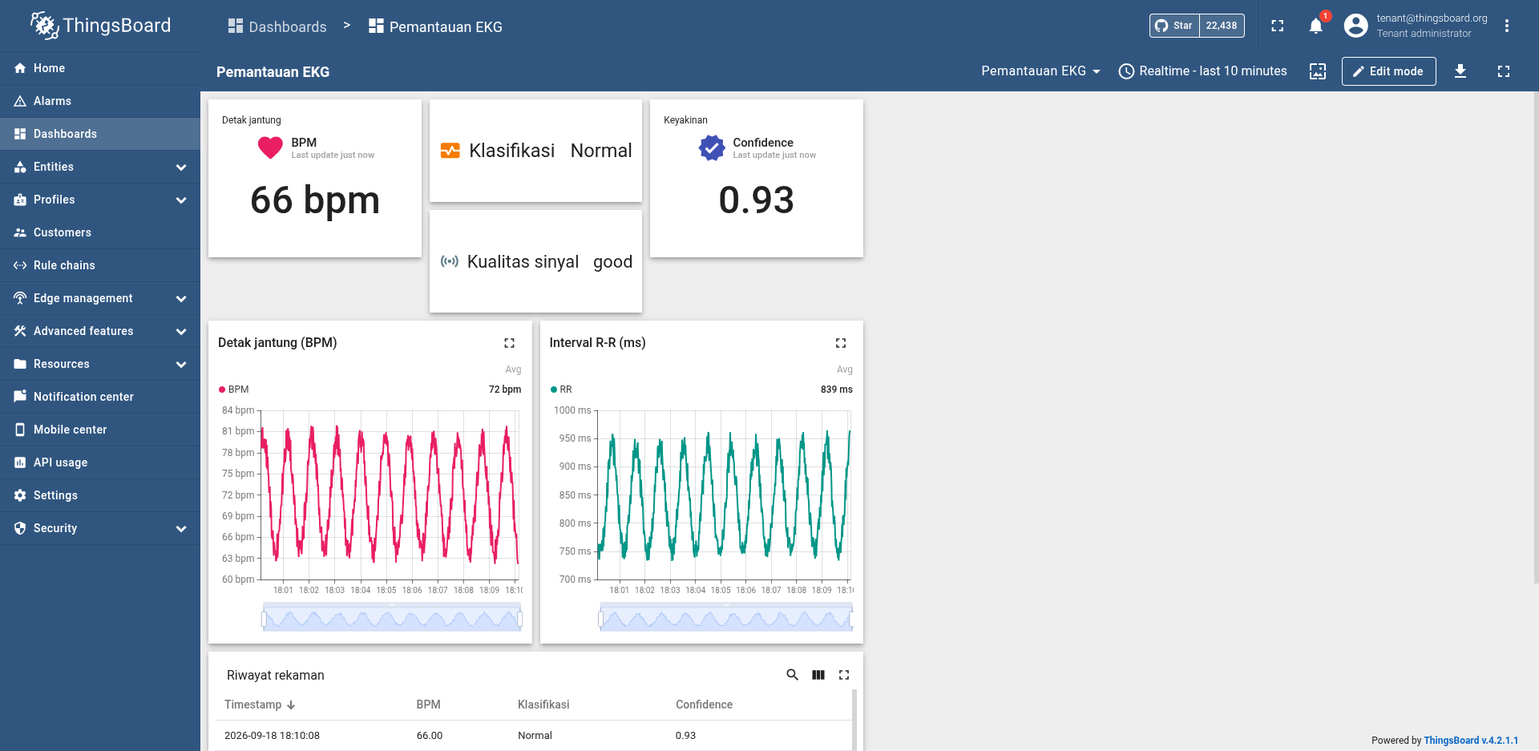
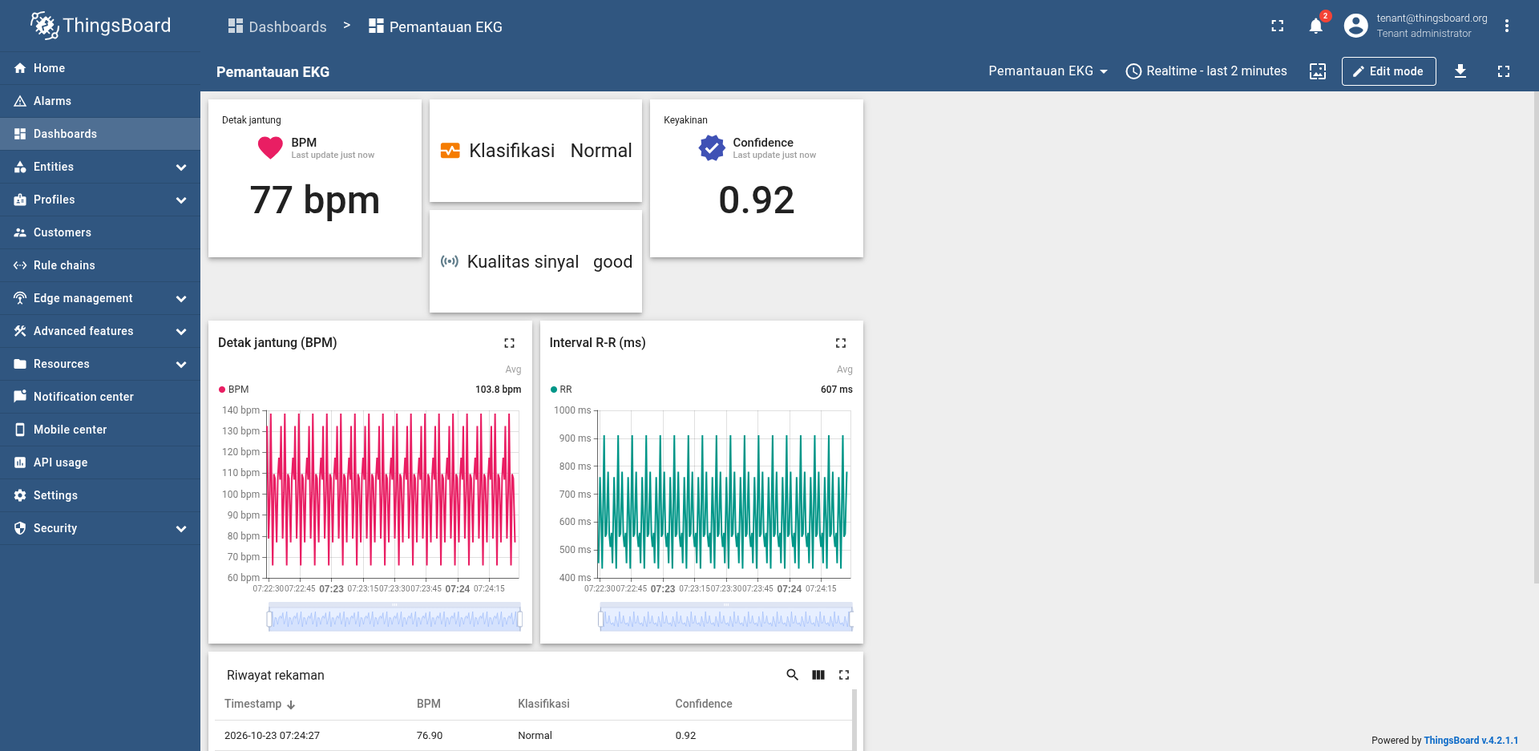
feat(laporan): ulangan ketiga uji pipeline dan dashboard telemetri perangkat
Run 3: dashboard/ukur_pipeline.py 120, 23 Okt 2026 07.22-07.24, firmware
akhir, replay acuan, WiFi HIFIAIR_9351 RSSI -40 dBm:
  LATENSI (batas bawah/atas) n 201: median 1014/1031 ms, p95 2251/2263 ms,
    min 495/507 ms, maks 2813/2960 ms; target <= 2000 ms median LULUS
  PDSR: terkirim 201 | hilang 0 | gagal 0 | paket 188/188 PDSR 100.0%
  REST ThingsBoard 07:21:30-07:25:00: 267 baris, 267 ts unik
    (= terkirim 267 di status akhir board), ts ganda 0
Dashboard: Playwright localhost:8080, jendela Realtime 2 menit,
viewport 1920x937 (sama dengan gambar lama), tangkapan 07:24 ->
dashboard/preview.png -> export_artifacts.sh --laporan.
Gambar lama berisi telemetri uji smoke_test 18 Sep, kini telemetri
perangkat (77 bpm, Normal, 0.92, good).

Buku: tab:target-pipeline kolom Ulangan 3, paragraf Streaming Normal,
Dashboard, ketercapaian, analisis, keterbatasan p95, Bab 5, abstrak
(99,2-100,0% pada tiga ulangan, median 939-1.108 ms).
Walkthrough §7c kolom Run 3. Pekerjaan terbuka: rekaman mulai sendiri
sesudah colok USB (teramati 2 kali, penyebab belum diukur).

Bukti: make pdf exit 0, undefined 0, Overfull 0; cek_tabel.py 0 galat
0 saran; halaman tabel (100) dan gambar dashboard (105) dirender dan
dilihat.

diff --git a/laporan/buku-pa/bab/bab4.tex b/laporan/buku-pa/bab/bab4.tex
@@ -873,7 +873,7 @@ Pengukuran yang sah memerlukan beban yang identik pada setiap ulangan, karena it
 \subsection{Jalur \textit{Pipeline Edge-to-Cloud} Resilien}
 \label{subsec:hasil-tujuan3}
 
-\textit{Pipeline edge-to-cloud} dibangun dengan protokol MQTT dan bufer lokal untuk menjaga kontinuitas data saat koneksi terputus. Keberhasilannya dinilai pada enam target di Tabel~\ref{tab:pengujian-pipeline}, dengan latensi dinilai pada median dan p95 dilaporkan (Tabel~\ref{tab:parameter-eksperimen}). Pengukuran pengiriman dilakukan pada 19 September 2026 dengan sumber sinyal \textit{replay} rekaman 208, karena sinyal yang deterministik membuat hasil antarulangan dapat dibandingkan dan jumlah detak yang dikirim dapat dihitung secara pasti. Pengukuran tersebut karena itu menguji jalur dari pemrosesan di perangkat sampai \textit{dashboard}, sedangkan gerbang kualitas juga diuji dengan sinyal tubuh pada 21--22 Oktober 2026. Hasilnya dipaparkan dalam lima butir, yaitu gerbang kualitas, \textit{streaming} normal, putus koneksi, latensi, dan \textit{dashboard}.
+\textit{Pipeline edge-to-cloud} dibangun dengan protokol MQTT dan bufer lokal untuk menjaga kontinuitas data saat koneksi terputus. Keberhasilannya dinilai pada enam target di Tabel~\ref{tab:pengujian-pipeline}, dengan latensi dinilai pada median dan p95 dilaporkan (Tabel~\ref{tab:parameter-eksperimen}). Pengukuran pengiriman dilakukan pada 19 September 2026 dan diulang pada 23 Oktober 2026 dengan sumber sinyal \textit{replay} rekaman 208. Sinyal yang deterministik membuat hasil antarulangan dapat dibandingkan dan jumlah detak yang dikirim dapat dihitung secara pasti. Pengukuran tersebut karena itu menguji jalur dari pemrosesan di perangkat sampai \textit{dashboard}, sedangkan gerbang kualitas juga diuji dengan sinyal tubuh pada 21--22 Oktober 2026. Hasilnya dipaparkan dalam lima butir, yaitu gerbang kualitas, \textit{streaming} normal, putus koneksi, latensi, dan \textit{dashboard}.
 % sumber: laporan/buku-pa/bab/bab1.tex Tujuan butir 3; laporan/buku-pa/bab/bab3.tex tab:pengujian-pipeline (enam aspek); bab4.tex tab:parameter-eksperimen baris f (latensi dinilai pada median, p95 dilaporkan) dan tab:lingkup-progres (pipeline MQTT dengan sinyal replay); model/docs/mqtt-walkthrough.md (19 September 2026); git log 6fc426c (2026-09-19)
 
 \subsubsection{Gerbang Kalibrasi dan Kualitas Sinyal}
@@ -894,40 +894,40 @@ Uji tersebut menunjukkan bahwa gerbang menahan sinyal tanpa elektroda dan kontak
 
 \subsubsection{\textit{Streaming} Normal}
 
-Detak yang lolos gerbang harus sampai di ThingsBoard secara utuh dan tepat waktu pada jaringan yang tidak sengaja diganggu. Perangkat terhubung melalui WiFi lokal ke ThingsBoard di komputer pengembangan, dan skrip pengukur \textit{pipeline} di komputer mengukur selama 180 detik sebanyak dua ulangan. Skrip membaca pencacah paket pada \textit{firmware} untuk PDSR dan membaca REST API ThingsBoard sekitar tiap 100~ms untuk latensi. PDSR dihitung per paket, bukan per detak, karena satu paket dapat memuat sampai 50 detak. Hasil keenam target ditunjukkan pada Tabel~\ref{tab:target-pipeline}.
-% sumber: model/docs/mqtt-walkthrough.md §7c (dashboard/ukur_pipeline.py 180, replay ON, tanpa elektroda, dua ulangan); dashboard/ukur_pipeline.py (pencacah firmware lewat serial, polling REST dengan time.sleep(0.1)); firmware/include/ecg_mqtt.h (PDSR per paket, ECG_MQTT_BATCH_N 50); laporan/buku-pa/bab/bab4.tex sec:tempat-ujicoba
+Detak yang lolos gerbang harus sampai di ThingsBoard secara utuh dan tepat waktu pada jaringan yang tidak sengaja diganggu. Perangkat terhubung melalui WiFi lokal ke ThingsBoard di komputer pengembangan, dan skrip pengukur \textit{pipeline} di komputer mengukur sebanyak tiga ulangan. Ulangan 1 dan 2 berlangsung masing-masing 180 detik pada 19 September 2026, sedangkan ulangan 3 berlangsung 120 detik pada 23 Oktober 2026 dengan \textit{firmware} akhir. Skrip membaca pencacah paket pada \textit{firmware} untuk PDSR dan membaca REST API ThingsBoard sekitar tiap 100~ms untuk latensi. PDSR dihitung per paket, bukan per detak, karena satu paket dapat memuat sampai 50 detak. Hasil keenam target ditunjukkan pada Tabel~\ref{tab:target-pipeline}.
+% sumber: model/docs/mqtt-walkthrough.md §7c (dashboard/ukur_pipeline.py 180, replay ON, tanpa elektroda, dua ulangan; Run 3 ukur_pipeline.py 120 pada 23 Okt 2026); dashboard/ukur_pipeline.py (pencacah firmware lewat serial, polling REST dengan time.sleep(0.1)); firmware/include/ecg_mqtt.h (PDSR per paket, ECG_MQTT_BATCH_N 50); laporan/buku-pa/bab/bab4.tex sec:tempat-ujicoba
 
 \begin{table}[!ht]
   \centering
-  \caption{Hasil pengukuran enam target pengujian \textit{pipeline} pada dua ulangan dengan sumber sinyal \textit{replay}}
+  \caption{Hasil pengukuran enam target pengujian \textit{pipeline} pada tiga ulangan dengan sumber sinyal \textit{replay}}
   \label{tab:target-pipeline}
   \setstretch{1.0}
   \setlength{\tabcolsep}{3pt}
   \renewcommand{\arraystretch}{1.15}
   \small
-  \begin{tabularx}{\linewidth}{>{\RaggedRight\arraybackslash}X>{\RaggedRight\arraybackslash}p{2.8cm}>{\raggedleft\arraybackslash}p{1.7cm}>{\raggedleft\arraybackslash}p{1.7cm}>{\centering\arraybackslash}p{1.9cm}}
+  \begin{tabularx}{\linewidth}{>{\RaggedRight\arraybackslash}X>{\RaggedRight\arraybackslash}p{2.6cm}>{\raggedleft\arraybackslash}p{1.45cm}>{\raggedleft\arraybackslash}p{1.45cm}>{\raggedleft\arraybackslash}p{1.45cm}>{\centering\arraybackslash}p{1.8cm}}
     \toprule
-    \textbf{Metrik} & \textbf{Target} & \textbf{Ulangan 1} & \textbf{Ulangan 2} & \textbf{Status} \\
+    \textbf{Metrik} & \textbf{Target} & \textbf{Ulangan 1} & \textbf{Ulangan 2} & \textbf{Ulangan 3} & \textbf{Status} \\
     \midrule
-    PDSR (\%) & $\geq$ 95 & 100,0 & 99,2 & Terpenuhi \\
-    Latensi \textit{end-to-end} median (ms) & $\leq$ 2.000 & 939 & 1.108 & Terpenuhi \\
-    Latensi \textit{end-to-end} p95 (ms) & acuan $\leq$ 2.000 & 1.404 & 3.304 & Dilaporkan \\
-    Kapasitas \textit{ring buffer} (entri) & $\pm$27.000 tanpa \textit{overflow} & 27.000 & -- & Terpenuhi \\
-    Data hilang saat putus koneksi (detak) & 0 & 0 & -- & Terpenuhi \\
-    Durasi \textit{flush} (detik) & $\leq$ 60 & $\leq$ 24,6 & -- & Terpenuhi \\
-    \textit{Timestamp} ganda di ThingsBoard & Duplikat QoS 1 diabaikan & 0 & 0 & Terpenuhi \\
+    PDSR (\%) & $\geq$ 95 & 100,0 & 99,2 & 100,0 & Terpenuhi \\
+    Latensi \textit{end-to-end} median (ms) & $\leq$ 2.000 & 939 & 1.108 & 1.014 & Terpenuhi \\
+    Latensi \textit{end-to-end} p95 (ms) & acuan $\leq$ 2.000 & 1.404 & 3.304 & 2.251 & Dilaporkan \\
+    Kapasitas \textit{ring buffer} (entri) & $\pm$27.000 tanpa \textit{overflow} & 27.000 & -- & -- & Terpenuhi \\
+    Data hilang saat putus koneksi (detak) & 0 & 0 & -- & -- & Terpenuhi \\
+    Durasi \textit{flush} (detik) & $\leq$ 60 & $\leq$ 24,6 & -- & -- & Terpenuhi \\
+    \textit{Timestamp} ganda di ThingsBoard & Duplikat QoS 1 diabaikan & 0 & 0 & 0 & Terpenuhi \\
     \bottomrule
   \end{tabularx}
-  \par\vspace{2pt}{\footnotesize\raggedright Keterangan: PDSR dihitung per paket, yaitu 292 dari 292 dan 253 dari 255 paket. Target latensi 2 detik ditulis sebagai 2.000 ms. Tanda -- berarti skenario kapasitas dan putus koneksi dijalankan sekali pada konfigurasi yang sama (butir c), dan perilaku antrean penuh diverifikasi pada uji unit.\par}
+  \par\vspace{2pt}{\footnotesize\raggedright Keterangan: PDSR dihitung per paket, yaitu 292 dari 292, 253 dari 255, dan 188 dari 188 paket. Target latensi 2 detik ditulis sebagai 2.000 ms. Tanda -- berarti skenario kapasitas dan putus koneksi dijalankan sekali pada konfigurasi yang sama (butir c), dan perilaku antrean penuh diverifikasi pada uji unit. Ulangan 3 memakai \textit{firmware} akhir.\par}
 \end{table}
-% sumber: model/docs/mqtt-walkthrough.md §7c (Run 1 dan Run 2: PDSR 100,0% (292/292) dan 99,2% (253/255); median 939 dan 1.108 ms; p95 1.404 dan 3.304 ms; bufer lokal 27.000 terpasang; integritas hilang 0; pemulihan sekitar 24 dtk (43 beat), idem; deduplikasi 0 ts duplikat, idem; kolom idem pada baris ring, integritas, dan pemulihan merujuk satu skenario yang dicatat sekali pada konfigurasi awal sehingga ditulis Tidak diulang atau Konfigurasi sama, lihat git show 2857364 dan 33d9a80); 24,6 detik = 82,8 - 58,2 dari bagian "Uji resiliensi" (pembacaan status pertama sesudah tersambung kembali yang menunjukkan backlog 0); target dedup: bab3.tex Deduplikasi di ThingsBoard Rule Engine (ts_kv ditimpa, duplikat diabaikan); dan §7 (backlog 27.000 beat di PSRAM, 1.054 KB, 40 B per entri); model/CLAUDE.md HW-6 (6 dari 6 target terukur, 2 ulangan); target dari laporan/buku-pa/bab/bab3.tex tab:pengujian-pipeline dan bab4.tex tab:parameter-eksperimen baris f (latensi dinilai pada median, p95 dilaporkan); 253 / 255 = 0,9922
+% sumber: model/docs/mqtt-walkthrough.md §7c (Run 1 dan Run 2: PDSR 100,0% (292/292) dan 99,2% (253/255); median 939 dan 1.108 ms; p95 1.404 dan 3.304 ms; Run 3 (23 Okt 2026 07:22-07:24, ukur_pipeline.py 120, n 201 beat, batas bawah median 1.014 ms, p95 2.251 ms, PDSR 100,0% 188/188, hilang 0, gagal 0; REST ThingsBoard 07:21:30-07:25:00 = 267 baris unik untuk terkirim 267, ts ganda 0; model/artifacts/metrics/mqtt/20261023-0724-dashboard-replay.png); bufer lokal 27.000 terpasang; integritas hilang 0; pemulihan sekitar 24 dtk (43 beat), idem; deduplikasi 0 ts duplikat, idem; kolom idem pada baris ring, integritas, dan pemulihan merujuk satu skenario yang dicatat sekali pada konfigurasi awal sehingga ditulis Tidak diulang atau Konfigurasi sama, lihat git show 2857364 dan 33d9a80); 24,6 detik = 82,8 - 58,2 dari bagian "Uji resiliensi" (pembacaan status pertama sesudah tersambung kembali yang menunjukkan backlog 0); target dedup: bab3.tex Deduplikasi di ThingsBoard Rule Engine (ts_kv ditimpa, duplikat diabaikan); dan §7 (backlog 27.000 beat di PSRAM, 1.054 KB, 40 B per entri); model/CLAUDE.md HW-6 (6 dari 6 target terukur, 2 ulangan); target dari laporan/buku-pa/bab/bab3.tex tab:pengujian-pipeline dan bab4.tex tab:parameter-eksperimen baris f (latensi dinilai pada median, p95 dilaporkan); 253 / 255 = 0,9922
 
-Seluruh target \textit{streaming} terpenuhi pada kedua ulangan (Tabel~\ref{tab:target-pipeline}). PDSR mencapai 100,0\% dan 99,2\%, di atas target 95\%, dan median latensi 939 dan 1.108~ms berada di bawah target. p95 tidak memiliki target dan berayun antarulangan. Baris data hilang dan durasi \textit{flush} bersumber dari satu skenario putus koneksi (butir c), sedangkan baris kapasitas menunjukkan kapasitas yang terpasang beserta perilaku antrean penuh yang diverifikasi pada uji unit.
+Seluruh target \textit{streaming} terpenuhi pada ketiga ulangan (Tabel~\ref{tab:target-pipeline}). PDSR paling rendah 99,2\%, di atas target 95\%, dan median latensi 939 sampai 1.108~ms berada di bawah target 2.000~ms. p95 tidak memiliki target dan berayun antarulangan. Baris data hilang dan durasi \textit{flush} bersumber dari satu skenario putus koneksi (butir c), sedangkan baris kapasitas menunjukkan kapasitas yang terpasang beserta perilaku antrean penuh yang diverifikasi pada uji unit.
 
 Pada ulangan kedua, dua dari 255 paket tidak tercatat menerima PUBACK. \textit{Firmware} hanya mengizinkan satu paket beredar, jadi sekurang-kurangnya satu paket melewati batas 5 detik tanpa PUBACK lalu dikirim ulang dari antrean, dan detaknya tidak hilang karena baru dihapus setelah PUBACK. Penyebab pastinya tidak diperiksa, tetapi ulangan yang sama juga memiliki ekor latensi lebih panjang (butir d).
 % sumber: laporan/buku-pa/bab/bab3.tex tab:pengujian-pipeline (PDSR >= 95%); firmware/src/ecg_mqtt.cpp ecg_mqtt_layani() baris 406-424 (menunggu_ack lalu return, satu PUBLISH beredar saja; PUBACK timeout 5000 ms memicu putus dan kirim ulang dari antrean) dan kirim_batch() (paket_kirim++ saat tulis, paket_ack++ saat PUBACK); model/docs/mqtt-walkthrough.md §7c (p95 3.304 ms pada Run 2, porsi paket lambat 24/255 = 9,4%); penyebab dua paket tidak dicatat di sumber manapun
 
-Nol \textit{timestamp} ganda tidak berarti paket ganda tidak pernah tiba. Pengiriman ulang QoS 1 dapat mengirim detak yang sama dua kali, tetapi ThingsBoard menimpa baris yang \textit{timestamp}-nya sama. Mekanisme ini diuji dengan skrip uji asap (\textit{smoke test}) yang menerbitkan ulang sebuah \textit{timestamp} dengan nilai berbeda dan mendapati enam baris tanpa duplikat dengan nilai lama tertimpa. Baris data hilang dan durasi \textit{flush} bersumber dari satu skenario putus koneksi yang tidak diulang, jadi kolom Ulangan 2 pada baris itu diberi tanda --.
+Nol \textit{timestamp} ganda tidak berarti paket ganda tidak pernah tiba. Pengiriman ulang QoS 1 dapat mengirim detak yang sama dua kali, tetapi ThingsBoard menimpa baris yang \textit{timestamp}-nya sama. Mekanisme ini diuji dengan skrip uji asap (\textit{smoke test}) yang menerbitkan ulang sebuah \textit{timestamp} dengan nilai berbeda dan mendapati enam baris tanpa duplikat dengan nilai lama tertimpa. Baris data hilang dan durasi \textit{flush} bersumber dari satu skenario putus koneksi yang tidak diulang, jadi kolom Ulangan 2 dan 3 pada baris itu diberi tanda --.
 % sumber: dashboard/smoke_test.py (assert len(rows) == 6, len(by_ts) == 6, by_ts[base] == 999.0 setelah publikasi ulang ts identik); model/docs/mqtt-walkthrough.md §3.3 (uji dedup smoke_test tetap lulus); laporan/buku-pa/bab/bab3.tex Deduplikasi di ThingsBoard Rule Engine (upsert ts_kv); model/docs/mqtt-walkthrough.md §7c (0 ts duplikat); skenario putus koneksi satu kali: butir c subbab ini
 
 Pada uji jalur data dan uji putus koneksi, pencacah sampel ADC yang hilang di perangkat tetap 0, sedangkan rancangan awal yang menunggu PUBACK di dalam \textit{loop} sempat menghilangkan 4.493 sampel.
@@ -999,7 +999,7 @@ Menurunkan kadens deteksi menjadi 0,5 detik diperkirakan memangkas sekitar 250~m
 Ekor sebaran adalah kelemahan terukur pada pengujian latensi. RTT PUBACK yang dicatat perangkat berkelompok di sekitar 1,2, 2,0, dan 4,2 detik, yang menyerupai pola penggandaan \textit{retransmission timeout} TCP saat segmen yang hilang di WiFi dikirim ulang. Penyebab lain sudah dikesampingkan, yaitu \textit{broker} menjawab dalam 1,1~ms, soket kosong ketika PUBACK melewati batas waktu sehingga aliran baca tidak bergeser, dan kuat sinyal $-$50 dBm bukan sinyal lemah. Dugaan yang tersisa adalah kontensi kanal pada jaringan yang tidak terisolasi, yang belum diukur langsung.
 % sumber: model/docs/mqtt-walkthrough.md §7c "Ekor p95" (RTT PUBACK berkelompok 1,2 / 2,0 / 4,2 detik, backoff RTO TCP 1-2-4, sock.available() = 0 byte saat timeout, RSSI -50 dBm, kontensi kanal WiFi) dan model/CLAUDE.md jebakan "Menyalahkan komponen jauh sebelum mengukurnya"; firmware/src/ecg_mqtt.cpp (komentar setSleep: RTT 1.236 / 2.037 / 4.235 ms); laporan/buku-pa/bab/bab4.tex sec:tempat-ujicoba (WiFi tidak terisolasi)
 
-Dua penanganan diterapkan, yaitu setNoDelay(true) agar algoritma Nagle tidak menahan paket kecil dan WiFi.setSleep(false) agar radio tidak tidur dan menjatuhkan paket masuk. Porsi paket ber-RTT di atas 1 detik turun dari 11,1\% (23 dari 207 paket) menjadi 8,1\% dan 5,1\% pada kedua langkah itu. Pada dua ulangan di Tabel~\ref{tab:target-pipeline}, porsi itu terukur 1,0\% (3 dari 292) dan 9,4\% (24 dari 255), jadi berayun antara 1 dan 9\%. Penurunan menjadi 8,1\% dan 5,1\% tidak dapat dipisahkan dari ayunan antarulangan tersebut, dan yang berubah antarulangan adalah kondisi kanal, bukan kode. Sisa ekor tidak dikejar. Satu-satunya langkah pada \textit{firmware} yang tersisa, yaitu \textit{pipelining} QoS 1, mengubah implementasi QoS 1 yang sederhana dan terbukti demi 1 sampai 9\% paket pada jaringan di tempat uji, sedangkan median dan PDSR sudah memenuhi target. Setelan setSleep(false) menambah arus yang diperkirakan sekitar 30~mA dan belum diukur, jadi pengukuran daya WiFi harus memakainya. p95 yang bersih memerlukan titik akses yang tidak padat dengan lebih banyak ulangan.
+Dua penanganan diterapkan, yaitu setNoDelay(true) agar algoritma Nagle tidak menahan paket kecil dan WiFi.setSleep(false) agar radio tidak tidur dan menjatuhkan paket masuk. Porsi paket ber-RTT di atas 1 detik turun dari 11,1\% (23 dari 207 paket) menjadi 8,1\% dan 5,1\% pada kedua langkah itu. Pada ulangan 1 dan 2 di Tabel~\ref{tab:target-pipeline}, porsi itu terukur 1,0\% (3 dari 292) dan 9,4\% (24 dari 255), jadi berayun antara 1 dan 9\%. Penurunan menjadi 8,1\% dan 5,1\% tidak dapat dipisahkan dari ayunan antarulangan tersebut, dan yang berubah antarulangan adalah kondisi kanal, bukan kode. Sisa ekor tidak dikejar. Satu-satunya langkah pada \textit{firmware} yang tersisa, yaitu \textit{pipelining} QoS 1, mengubah implementasi QoS 1 yang sederhana dan terbukti demi 1 sampai 9\% paket pada jaringan di tempat uji, sedangkan median dan PDSR sudah memenuhi target. Setelan setSleep(false) menambah arus yang diperkirakan sekitar 30~mA dan belum diukur, jadi pengukuran daya WiFi harus memakainya. p95 yang bersih memerlukan titik akses yang tidak padat dengan lebih banyak ulangan.
 % sumber: model/docs/mqtt-walkthrough.md §7c (tabel perubahan dan paket lambat: awal 23/207 = 11,1%, setNoDelay 18/222 = 8,1%, setSleep(false) 11/217 = 5,1%, dua run terakhir 3/292 = 1,0% dan 24/255 = 9,4%) dan §7b bug 5 (Nagle berpasangan dengan delayed-ACK, RTT berulang sekitar 1.250 ms); firmware/src/ecg_mqtt.cpp baris 322-330 (WiFi.setSleep(false)) dan 392-399 (sock.setNoDelay(true)); penyebut 292 dan 255 sama dengan jumlah paket Run 1 dan Run 2 pada tab:target-pipeline
 % sumber: model/docs/mqtt-walkthrough.md §7c "Keputusan: tidak dikejar lebih jauh" (pipelining QoS-1 menambah pembukuan pid dan beat dan aturan geser ring setelah ack tertua, kejadian 1-dari-20 di jaringan uji, median dan PDSR lulus, bab3 menyebut target indikatif dan pengujian fungsional bukan klinis; kalau butuh p95 bersih ukur di AP tidak padat dan laporkan n run), setSleep(false) sekitar +30 mA (biaya daya, perkiraan) tanpa pengukuran HW-7 mode WiFi; porsi paket lambat 23/207, 18/222, 11/217, 3/292, 24/255 dari tabel §7c; firmware/src/ecg_mqtt.cpp komentar setSleep; laporan/buku-pa/bab/bab3.tex Rencana Pengujian (bukan klinis, target indikatif)
 
@@ -1011,16 +1011,14 @@ Data yang tiba di ThingsBoard harus dapat dibaca pada \textit{dashboard} yang di
 \begin{figure}[!ht]
   \centering
   \includegraphics[width=\linewidth,keepaspectratio]{dashboard_preview.png}
-  \caption{Tampilan \textit{dashboard} Pemantauan EKG pada ThingsBoard dengan telemetri uji tanggal 18 September 2026}
+  \caption{Tampilan \textit{dashboard} Pemantauan EKG pada ThingsBoard dengan telemetri perangkat dari sinyal \textit{replay}}
   \label{fig:4-dashboard}
 \end{figure}
 
-Gambar~\ref{fig:4-dashboard} diambil pada 18 September 2026, sebelum klien MQTT perangkat selesai, dan nilai \textit{confidence} 0,93 sama dengan konstanta \textit{payload} pada skrip uji asap. Data yang tampak karena itu adalah telemetri uji dan bukan keluaran perangkat, dan gambar hanya menunjukkan tata letak \textit{widget}. Tata letaknya berupa kartu BPM, klasifikasi, \textit{confidence}, dan kualitas sinyal di bagian atas, dua grafik tren BPM dan interval R-R di tengah, serta tabel riwayat rekaman di bagian bawah. Tangkapan layar dengan telemetri perangkat belum diambil, aturan alarm belum dipasang, dan ecg\_snippet belum memiliki \textit{widget} walaupun datanya sudah tiba.
-% KONFIRMASI PENULIS: ambil ulang tangkapan layar dengan telemetri replay perangkat
-% sumber: gambar laporan/buku-pa/gambar/dashboard_preview.png (dibuka dan dibaca: kartu BPM 66 bpm, Klasifikasi Normal, Kualitas sinyal good, Confidence 0.93, grafik Detak jantung (BPM) rerata 72 bpm sumbu 60-84 bpm, grafik Interval R-R (ms) rerata 839 ms sumbu 700-1000 ms, tabel Riwayat rekaman 2026-09-18 18:10:08 BPM 66.00 Normal 0.93; tata letak kartu di atas, dua grafik di tengah, tabel di bawah); dashboard/provision_dashboard.py (WIDGETS)
-% sumber: dashboard/preview.png (berkas 18 Sep 2026 20:09, identik dengan laporan/buku-pa/gambar/dashboard_preview.png), git log b906903 (2026-09-18 19:59, dashboard dibuat) dan 94dc0a0 (2026-09-19 20:01, klien MQTT perangkat pertama); dashboard/smoke_test.py record() (confidence 0.93, signal_quality good, label_str Normal); laporan/buku-pa/bab/bab3.tex Antarmuka Monitoring (aturan alarm belum dipasang); model/docs/mqtt-walkthrough.md §10 (widget ecg_snippet belum digambar); sumber data tampilan diinferensikan dari kesamaan nilai, bukan dari log
+Gambar~\ref{fig:4-dashboard} diambil pada 23 Oktober 2026 saat ulangan 3, jadi data yang tampak adalah telemetri yang dikirim perangkat dari sinyal \textit{replay}. Kartu di bagian atas menampilkan detak terakhir, yaitu 77 bpm dengan klasifikasi Normal, \textit{confidence} 0,92, dan kualitas sinyal good. Dua grafik tren di tengah memuat BPM dan interval R-R selama dua menit terakhir dengan pola yang berulang pada setiap putaran \textit{replay}. Tabel riwayat rekaman di bagian bawah memuat detak terbaru beserta klasifikasinya. Aturan alarm belum dipasang, dan ecg\_snippet belum memiliki \textit{widget} walaupun datanya sudah tiba.
+% sumber: gambar laporan/buku-pa/gambar/dashboard_preview.png = dashboard/preview.png = model/artifacts/metrics/mqtt/20261023-0724-dashboard-replay.png (Playwright 23 Okt 2026 07:24:3x, jendela Realtime 2 menit; dibuka dan dibaca: kartu BPM 77 bpm, Klasifikasi Normal, Confidence 0.92, Kualitas sinyal good; grafik BPM rerata 103,8 bpm dan RR rerata 607 ms 07:22:30-07:24:15; tabel Riwayat rekaman 2026-10-23 07:24:27 BPM 76.90 Normal 0.92); dashboard/provision_dashboard.py (WIDGETS); laporan/buku-pa/bab/bab3.tex Antarmuka Monitoring (aturan alarm belum dipasang); model/docs/mqtt-walkthrough.md §10 (widget ecg_snippet belum digambar)
 
-Dengan demikian keenam target terukur dengan sinyal \textit{replay}, tiga di antaranya pada dua ulangan, dan seluruhnya terpenuhi. PDSR dan median latensi memenuhi target pada kedua ulangan, p95 tidak stabil karena kondisi kanal, dan putusnya koneksi selama 24 detik tidak menghilangkan satu detak pun. Pengiriman dengan sinyal tubuh, skenario putus koneksi pada kapasitas akhir bufer, dan latensi pada jaringan yang tidak padat berada di luar cakupan pengujian ini dan dicatat sebagai keterbatasan.
+Dengan demikian keenam target terukur dengan sinyal \textit{replay}, tiga di antaranya pada tiga ulangan, dan seluruhnya terpenuhi. PDSR dan median latensi memenuhi target pada ketiga ulangan, p95 tidak stabil karena kondisi kanal, dan putusnya koneksi selama 24 detik tidak menghilangkan satu detak pun. Pengiriman dengan sinyal tubuh, skenario putus koneksi pada kapasitas akhir bufer, dan latensi pada jaringan yang tidak padat berada di luar cakupan pengujian ini dan dicatat sebagai keterbatasan.
 % sumber: tab:target-pipeline; butir a sampai d pada subbab ini; tiga target pada dua ulangan adalah PDSR, latensi, dan deduplikasi (model/docs/mqtt-walkthrough.md §7c, kolom Run 1 dan Run 2), sedangkan bufer lokal, integritas, dan pemulihan bersumber dari konfigurasi dan skenario yang tidak diulang
 
 \section{Analisis Hasil Eksperimen}
@@ -1053,8 +1051,8 @@ Hasil eksperimen dinilai terhadap ketiga tujuan penelitian. Status Tercapai dibe
     & Daya per mode operasi & Belum diukur & \\
     % sumber: bab4 tab:delta-int8, tab:sumber-daya, subsec:hasil-tujuan2 butir Konsumsi Daya; target dari bab3 tab:pengujian-model
     \midrule
-    \multirow{5}{=}{\textit{Pipeline} MQTT resilien} & PDSR $\geq$ 95\% & 100,0 dan 99,2 & \multirow{5}{=}{\centering Tercapai} \\
-    & Median latensi $\leq$ 2.000~ms & 939 dan 1.108 & \\
+    \multirow{5}{=}{\textit{Pipeline} MQTT resilien} & PDSR $\geq$ 95\% & 99,2 sampai 100,0 pada tiga ulangan & \multirow{5}{=}{\centering Tercapai} \\
+    & Median latensi $\leq$ 2.000~ms & 939 sampai 1.108 & \\
     & Tanpa \textit{overflow} dan data hilang & Hilang 0 pada uji putus koneksi & \\
     & \textit{Flush} $\leq$ 60 detik & $\leq$ 24,6 & \\
     & Duplikat dikenali & \textit{Timestamp} ganda 0 & \\
@@ -1087,7 +1085,7 @@ Kualitas klasifikasi, yang tidak memiliki ambang angka, mencapai \textit{recall}
 \subsection{Analisis Jalur \textit{Pipeline Edge-to-Cloud} Resilien}
 \label{subsec:analisis-tujuan3}
 
-\textit{Pipeline} MQTT dengan bufer lokal memenuhi target \textit{streaming} pada dua ulangan dengan sumber \textit{replay}, yaitu PDSR 100,0\% dan 99,2\% serta median latensi 939 dan 1.108~ms, sedangkan p95 tidak stabil. Pada satu uji putus koneksi tidak ada detak hilang dan pengurasan selesai paling lama 24,6 detik. \textit{Timestamp} ganda tidak ditemukan pada kedua ulangan (Tabel~\ref{tab:target-pipeline}). Kontinuitas pada uji putus koneksi berasal dari antrean yang baru melepas detak setelah PUBACK diterima dan dari \textit{timestamp} berisi waktu kejadian, dan jeda terbesar pada deret waktu hanya 911~ms selama \textit{broker} beku 24 detik. Median latensi dibatasi arsitektur deteksi dan bukan jaringan, karena sekitar 87\% latensi, atau 78\% sampai 93\% menurut ulangan, berasal dari sisi perangkat dan \textit{broker} hanya 1,1~ms (Tabel~\ref{tab:dekomposisi-latensi}).
+\textit{Pipeline} MQTT dengan bufer lokal memenuhi target \textit{streaming} pada tiga ulangan dengan sumber \textit{replay}, yaitu PDSR 99,2\% sampai 100,0\% serta median latensi 939 sampai 1.108~ms, sedangkan p95 tidak stabil. Pada satu uji putus koneksi tidak ada detak hilang dan pengurasan selesai paling lama 24,6 detik. \textit{Timestamp} ganda tidak ditemukan pada ketiga ulangan (Tabel~\ref{tab:target-pipeline}). Kontinuitas pada uji putus koneksi berasal dari antrean yang baru melepas detak setelah PUBACK diterima dan dari \textit{timestamp} berisi waktu kejadian, dan jeda terbesar pada deret waktu hanya 911~ms selama \textit{broker} beku 24 detik. Median latensi dibatasi arsitektur deteksi dan bukan jaringan, karena sekitar 87\% latensi, atau 78\% sampai 93\% menurut ulangan, berasal dari sisi perangkat dan \textit{broker} hanya 1,1~ms (Tabel~\ref{tab:dekomposisi-latensi}).
 % sumber: bab4 tab:target-pipeline (100,0% dan 99,2%, 939 dan 1.108 ms, p95 tidak stabil, hilang 0 dan flush <= 24,6 detik dari satu uji, ts ganda 0 pada dua ulangan), subsec:hasil-tujuan3 butir Streaming Normal (dihapus setelah PUBACK, ThingsBoard menimpa ts sama) dan butir Putus Koneksi (jeda 911 ms, beku 24 detik, antrean pada uji itu masih berkapasitas 64 detak), tab:dekomposisi-latensi (87%, rentang 78% sampai 93%, 1,1 ms)
 
 Cakupan pengujiannya perlu dicatat. Seluruh pengukuran pengiriman memakai sinyal \textit{replay} sekitar 1,6 detak per detik, sedangkan gerbang kualitas diuji terpisah dengan sinyal tubuh tanpa pengiriman MQTT. Skenario putus koneksi dijalankan satu kali sebelum antrean dipindahkan ke PSRAM berkapasitas 27.000 entri dengan paket 50 detak. p95 berayun antara 1.404~ms dan 3.304~ms, yang diduga akibat kontensi kanal WiFi. Karena seluruh target pada Tabel~\ref{tab:pengujian-pipeline} terpenuhi pada pengujian yang dilakukan, jalur \textit{pipeline} dinilai Tercapai, dengan cakupan tersebut dicatat sebagai keterbatasan.
@@ -1146,7 +1144,7 @@ Walaupun jalur komputasi, model INT8, dan \textit{pipeline} telah terukur di per
   \item Rekaman perangkat berasal dari satu subjek sehat, yaitu penulis, dan variasi sinyal antarindividu belum terwakili.
   \item Rekaman sinyal tubuh resmi berasal dari satu sesi dengan empat rekaman yang seluruhnya memenuhi kriteria (Tabel~\ref{tab:kualitas-rekaman}), dan variasi antarsesi belum terwakili.
   \item Konsumsi daya belum diukur, termasuk biaya daya radio WiFi yang tidak ditidurkan.
-  \item Ekor latensi belum stabil, yaitu p95 1.404~ms dan 3.304~ms pada dua ulangan yang diduga akibat kontensi kanal WiFi.
+  \item Ekor latensi belum stabil, yaitu p95 1.404~ms sampai 3.304~ms pada tiga ulangan yang diduga akibat kontensi kanal WiFi.
   \item Model hanya biner dan tidak menamai jenis aritmia.
   \item \textit{Recall} kelas S masih rendah. \textit{Learning rate} $10^{-3}$ tetap dipakai demi kelas S karena $10^{-4}$ menurunkan \textit{recall} S DS2 dari 0,4473 menjadi 0,3126 walaupun AUC naik (Tabel~\ref{tab:ablasi}), dengan konsekuensi model akhir hasil satu \textit{epoch}.
   \item Angka DS2 berpotensi sedikit optimistis karena DS2 ikut menilai ablasi \textit{window} dan \textit{jitter}.

diff --git a/laporan/buku-pa/bab/bab5.tex b/laporan/buku-pa/bab/bab5.tex
@@ -12,7 +12,7 @@ Preprocessing di ESP32-S3 terbukti setara dengan Python, yaitu seluruh tahap uji
 Model \textit{float32} pada DS2 yang berisi 22 pasien yang tidak terlihat saat pelatihan mencapai \textit{recall} 0,6996, F1 0,6594, dan AUC 0,9334. Kuantisasi INT8 menghasilkan model 22,94~KB dengan selisih \textit{recall} $+$0,0108. Inferensinya di ESP32-S3 memakan 26,6~ms per detak dengan \textit{tensor arena} 12.948 byte. Karena itu target kuantisasi, ukuran, latensi, dan memori terpenuhi tanpa ketergantungan pada \textit{cloud}. Target konsumsi daya per mode operasi belum dapat dinilai karena konsumsi daya belum diukur. Kelemahan model terletak pada kelas S dengan \textit{recall} 0,4390 pada DS2.
 % sumber: bab4 tab:hasil-ds2, tab:delta-int8, tab:sumber-daya, subsec:hasil-tujuan2 butir Evaluasi DS2 (recall S 0,4390) dan butir Konsumsi Daya, tab:ketercapaian
 
-Dengan sumber sinyal \textit{replay}, \textit{pipeline} MQTT mencapai PDSR 100,0\% dan 99,2\% dengan median latensi \textit{end-to-end} 939 dan 1.108~ms pada dua ulangan, dan memenuhi target PDSR 95\% dan latensi 2 detik. Ketika \textit{broker} dibekukan selama 24 detik, tidak ada detak yang hilang dan \textit{backlog} terkuras paling lama 24,6 detik setelah koneksi pulih. Jeda terbesar pada deret waktu di ThingsBoard hanya 911~ms karena setiap detak membawa \textit{timestamp} waktu kejadiannya.
+Dengan sumber sinyal \textit{replay}, \textit{pipeline} MQTT mencapai PDSR 99,2\% sampai 100,0\% dengan median latensi \textit{end-to-end} 939 sampai 1.108~ms pada tiga ulangan, dan memenuhi target PDSR 95\% dan latensi 2 detik. Ketika \textit{broker} dibekukan selama 24 detik, tidak ada detak yang hilang dan \textit{backlog} terkuras paling lama 24,6 detik setelah koneksi pulih. Jeda terbesar pada deret waktu di ThingsBoard hanya 911~ms karena setiap detak membawa \textit{timestamp} waktu kejadiannya.
 % sumber: bab4 tab:target-pipeline, subsec:hasil-tujuan3 butir Putus Koneksi dan Pemulihan (hilang 0, 24,6 detik, jeda 911 ms), tab:ketercapaian
 
 Selain ketercapaian tujuan, penelitian ini menghasilkan empat temuan teknis yang tidak terlihat dari rancangan awal.
@@ -22,7 +22,7 @@ Pertama, perbandingan keluaran perangkat dengan data acuan menangkap kesalahan y
 Kedua, augmentasi \textit{jitter} yang meniru \textit{error} detektor sendiri bekerja sebagai regularisasi. Residu detektor Pan-Tompkins pada DS1 berbentuk inti yang tajam dengan ekor yang berat, berbeda dari \textit{jitter} seragam yang dipakai penelitian terdahulu. Karena itu augmentasi mengambil sampel dari residu terukur tersebut. Pada ablasi tiga \textit{seed}, F1 DS2 naik dari 0,5660 menjadi 0,6354 walaupun DS2 sendiri tidak diberi \textit{jitter}, sehingga manfaatnya bukan sekadar simulasi kondisi lapangan. Catatannya, DS2 ikut menilai ablasi ini. Kenaikan tersebut karena itu berpotensi sedikit optimistis. Implikasinya, konstanta empiris dari penelitian lain sebaiknya diukur ulang pada detektor sendiri sebelum diadopsi.
 % sumber: bab4 tab:ablasi baris bersih dan jitter (0,5660, 0,6354, tiga seed), subsec:hasil-tujuan2 butir Ketahanan terhadap Error Segmentasi (residu inti tajam dan ekor berat, berbeda dari jitter seragam Dias) dan butir Ablasi (DS2 tidak diberi jitter, regularisasi), butir Evaluasi DS2 (DS2 ikut menilai ablasi, berpotensi sedikit optimistis)
 
-Ketiga, latensi \textit{end-to-end} dibatasi oleh sisi perangkat dan bukan oleh jaringan. Sekitar 87\% latensi, atau 78\% sampai 93\% menurut ulangan, berasal dari sisi perangkat, sedangkan \textit{broker} hanya menyumbang sekitar 1,1~ms, dan median latensi 939 dan 1.108~ms pada dua ulangan memenuhi target 2 detik. Ekor sebaran berbeda, karena p95 berayun antara 1.404 dan 3.304~ms yang diduga akibat kontensi kanal WiFi. Temuan ini nyaris terlewat, sebab pengukuran awal memberi median 1.907~ms dengan basis waktu perangkat yang beresolusi satu detik dan sempat menyimpulkan bahwa sisa latensi milik \textit{broker}. Kesimpulan itu dikoreksi setelah sumber waktu perangkat diganti dan \textit{broker} diukur langsung. Implikasinya, komponen yang dicurigai perlu diukur sebelum dipersalahkan, dan optimasi median latensi berikutnya berada di \textit{firmware}, bukan di jaringan.
+Ketiga, latensi \textit{end-to-end} dibatasi oleh sisi perangkat dan bukan oleh jaringan. Sekitar 87\% latensi, atau 78\% sampai 93\% menurut ulangan, berasal dari sisi perangkat, sedangkan \textit{broker} hanya menyumbang sekitar 1,1~ms, dan median latensi 939 sampai 1.108~ms pada tiga ulangan memenuhi target 2 detik. Ekor sebaran berbeda, karena p95 berayun antara 1.404 dan 3.304~ms yang diduga akibat kontensi kanal WiFi. Temuan ini nyaris terlewat, sebab pengukuran awal memberi median 1.907~ms dengan basis waktu perangkat yang beresolusi satu detik dan sempat menyimpulkan bahwa sisa latensi milik \textit{broker}. Kesimpulan itu dikoreksi setelah sumber waktu perangkat diganti dan \textit{broker} diukur langsung. Implikasinya, komponen yang dicurigai perlu diukur sebelum dipersalahkan, dan optimasi median latensi berikutnya berada di \textit{firmware}, bukan di jaringan.
 % sumber: bab4 tab:dekomposisi-latensi dan subsec:hasil-tujuan3 butir Latensi End-to-End (87%, rentang 78% sampai 93% menurut ulangan, broker 1,1 ms, median awal 1.907 ms karena basis waktu satu detik, koreksi setelah gettimeofday), tab:target-pipeline (median 939 dan 1.108 ms, p95 1.404 dan 3.304 ms, target 2 detik), butir Latensi (kontensi kanal sebagai dugaan, belum diukur langsung)
 
 Keempat, telemetri akuisisi dapat menyesatkan, sehingga kualitas sinyal tidak boleh dinilai dari keberadaan R-\textit{peak}. Detektor Pan-Tompkins memakai ambang adaptif terhadap sinyal yang ada dan tetap melaporkan R-\textit{peak} ketika biopotensial sudah hilang. Tanpa elektroda dan tanpa \textit{replay}, perangkat mengeluarkan sekitar 2 detak per detik dengan 57\% di antaranya diklasifikasi Aritmia. \textit{Flag lead-off} AD8232 pun dapat dipenuhi oleh satu jalur impedansi rendah saja dan karena itu tidak menjamin adanya sinyal. Sebaliknya, ayunan sinyal ECG yang kuat tetap tinggi ketika kontak elektroda memburuk. Penentu kualitas yang benar karena itu adalah gabungan status \textit{lead-off}, ayunan ADC absolut, dan dengung 50 Hz, dan gabungan inilah yang dipakai sebagai gerbang kualitas pada jalur \textit{pipeline}.

diff --git a/laporan/buku-pa/bab/abstrak.tex b/laporan/buku-pa/bab/abstrak.tex
@@ -20,7 +20,7 @@
 
 \vspace{0.2cm}
 
-Penyakit kardiovaskular merupakan penyebab utama kematian di dunia, dan aritmia sering terjadi tanpa gejala sehingga monitoring elektrokardiogram (ECG) secara kontinu diperlukan untuk deteksi dini. Sistem monitoring yang ada umumnya berarsitektur \textit{cloud-centric} yang berlatensi tinggi dan bergantung pada koneksi internet. Model deteksi aritmia juga jarang diuji pada batasan mikrokontroler, dan \textit{pipeline} data dari \textit{edge} ke \textit{cloud} belum tahan terhadap gangguan jaringan. Penelitian ini bertujuan membangun sistem monitoring detak jantung single-lead berbasis \textit{edge computing} dengan pendekatan TinyML. Preprocessing sinyal ECG dan klasifikasi aritmia dijalankan secara \textit{on-device} pada ESP32-S3, dan hasilnya dikirim melalui \textit{pipeline} MQTT yang dirancang tahan terhadap putusnya koneksi. Filter Butterworth dan deteksi R-\textit{peak} Pan-Tompkins dijalankan di mikrokontroler, dan model CNN \textit{hybrid} dengan cabang morfologi dan cabang ritme dikuantisasi menjadi INT8. Detak yang belum terkirim ditampung pada bufer lokal di PSRAM. Model \textit{float32} pada DS2 MIT-BIH dengan 22 pasien yang tidak terlihat saat pelatihan mencapai \textit{recall} 0,6996, F1 0,6594, dan AUC 0,9334. Kuantisasi INT8 menghasilkan model 22,94~KB dengan selisih \textit{recall} $+$0,0108, dan inferensinya di ESP32-S3 memakan 26,6~ms per detak. Preprocessing pada kode C terbukti setara dengan Python dengan beban 3,0\% anggaran waktu tanpa sampel yang hilang. Keempat rekaman sinyal tubuh resmi dari satu sesi perekaman memenuhi kriteria kualitas, dan gerbang kalibrasi berbasis kontak elektroda membuka pemantauan sekitar 60 detik setelah kontak baik. Dengan sinyal \textit{replay} dari rekaman MIT-BIH, \textit{pipeline} MQTT mencapai \textit{packet delivery success rate} 100,0\% dan 99,2\% pada dua ulangan dengan median latensi \textit{end-to-end} 939 dan 1.108~ms. Pembekuan \textit{broker} selama 24 detik tidak menghilangkan satu detak pun. Tujuan preprocessing dan \textit{pipeline} tercapai, sedangkan tujuan model INT8 tercapai kecuali target konsumsi daya yang belum diukur.
+Penyakit kardiovaskular merupakan penyebab utama kematian di dunia, dan aritmia sering terjadi tanpa gejala sehingga monitoring elektrokardiogram (ECG) secara kontinu diperlukan untuk deteksi dini. Sistem monitoring yang ada umumnya berarsitektur \textit{cloud-centric} yang berlatensi tinggi dan bergantung pada koneksi internet. Model deteksi aritmia juga jarang diuji pada batasan mikrokontroler, dan \textit{pipeline} data dari \textit{edge} ke \textit{cloud} belum tahan terhadap gangguan jaringan. Penelitian ini bertujuan membangun sistem monitoring detak jantung single-lead berbasis \textit{edge computing} dengan pendekatan TinyML. Preprocessing sinyal ECG dan klasifikasi aritmia dijalankan secara \textit{on-device} pada ESP32-S3, dan hasilnya dikirim melalui \textit{pipeline} MQTT yang dirancang tahan terhadap putusnya koneksi. Filter Butterworth dan deteksi R-\textit{peak} Pan-Tompkins dijalankan di mikrokontroler, dan model CNN \textit{hybrid} dengan cabang morfologi dan cabang ritme dikuantisasi menjadi INT8. Detak yang belum terkirim ditampung pada bufer lokal di PSRAM. Model \textit{float32} pada DS2 MIT-BIH dengan 22 pasien yang tidak terlihat saat pelatihan mencapai \textit{recall} 0,6996, F1 0,6594, dan AUC 0,9334. Kuantisasi INT8 menghasilkan model 22,94~KB dengan selisih \textit{recall} $+$0,0108, dan inferensinya di ESP32-S3 memakan 26,6~ms per detak. Preprocessing pada kode C terbukti setara dengan Python dengan beban 3,0\% anggaran waktu tanpa sampel yang hilang. Keempat rekaman sinyal tubuh resmi dari satu sesi perekaman memenuhi kriteria kualitas, dan gerbang kalibrasi berbasis kontak elektroda membuka pemantauan sekitar 60 detik setelah kontak baik. Dengan sinyal \textit{replay} dari rekaman MIT-BIH, \textit{pipeline} MQTT mencapai \textit{packet delivery success rate} 99,2\% sampai 100,0\% pada tiga ulangan dengan median latensi \textit{end-to-end} 939 sampai 1.108~ms. Pembekuan \textit{broker} selama 24 detik tidak menghilangkan satu detak pun. Tujuan preprocessing dan \textit{pipeline} tercapai, sedangkan tujuan model INT8 tercapai kecuali target konsumsi daya yang belum diukur.
 % sumber: bab4 tab:hasil-ds2 (DS2 22 pasien, recall 0,6996, F1 0,6594, AUC 0,9334), tab:delta-int8 (22,94 KB, selisih recall +0,0108), tab:sumber-daya (26,6 ms per detak), tab:beban-komputasi (3,0%, sampel hilang 0), tab:kualitas-rekaman (4 dari 4 rekaman resmi Berhasil, satu sesi), butir Gerbang Kalibrasi (sekitar 60 detik), tab:target-pipeline (PDSR 100,0% dan 99,2%, median 939 dan 1.108 ms, dua ulangan, sumber sinyal replay), butir Putus Koneksi (beku 24 detik, hilang 0), tab:ketercapaian (preprocessing dan pipeline Tercapai, model Sebagian tercapai karena daya)
 
 \vspace{0.25cm}

diff --git a/laporan/buku-pa/bab/abstract.tex b/laporan/buku-pa/bab/abstract.tex
@@ -21,7 +21,7 @@
 
 \vspace{0.2cm}
 
-Cardiovascular disease is the leading cause of death worldwide, and arrhythmia often occurs without symptoms, so continuous electrocardiogram (ECG) monitoring is needed for early detection. Existing monitoring systems are generally cloud-centric, with high latency and a dependence on internet connectivity. Arrhythmia detection models are also rarely tested under microcontroller constraints, and edge-to-cloud data pipelines are seldom tolerant of network disruption. This study builds a single-lead heart monitoring system based on edge computing using a TinyML approach. ECG preprocessing and arrhythmia classification run on-device on an ESP32-S3, and the results are sent through an MQTT pipeline designed to tolerate connection loss. A Butterworth filter and Pan-Tompkins R-peak detection run on the microcontroller, and a hybrid CNN with a morphology branch and a rhythm branch is quantized to INT8. Beats that have not been delivered are held in a local buffer in PSRAM. The float32 model on the MIT-BIH DS2 set, which contains 22 patients unseen during training, achieves a recall of 0.6996, an F1 of 0.6594, and an AUC of 0.9334. INT8 quantization yields a 22.94~KB model with a recall difference of $+$0.0108, and on-device inference takes 26.6~ms per beat. The C preprocessing is shown to be equivalent to the Python reference at 3.0\% of the time budget with no lost samples. All four official body-signal recordings from one recording session meet the quality criteria, and the electrode-contact calibration gate opens monitoring about 60 seconds after good contact. Using a replayed MIT-BIH signal, the MQTT pipeline reaches a packet delivery success rate of 100.0\% and 99.2\% in two runs with median end-to-end latencies of 939 and 1,108~ms. Freezing the broker for 24 seconds loses no beat. The preprocessing and pipeline objectives are achieved, while the INT8 model objective is achieved except for the power consumption target, which has not been measured.
+Cardiovascular disease is the leading cause of death worldwide, and arrhythmia often occurs without symptoms, so continuous electrocardiogram (ECG) monitoring is needed for early detection. Existing monitoring systems are generally cloud-centric, with high latency and a dependence on internet connectivity. Arrhythmia detection models are also rarely tested under microcontroller constraints, and edge-to-cloud data pipelines are seldom tolerant of network disruption. This study builds a single-lead heart monitoring system based on edge computing using a TinyML approach. ECG preprocessing and arrhythmia classification run on-device on an ESP32-S3, and the results are sent through an MQTT pipeline designed to tolerate connection loss. A Butterworth filter and Pan-Tompkins R-peak detection run on the microcontroller, and a hybrid CNN with a morphology branch and a rhythm branch is quantized to INT8. Beats that have not been delivered are held in a local buffer in PSRAM. The float32 model on the MIT-BIH DS2 set, which contains 22 patients unseen during training, achieves a recall of 0.6996, an F1 of 0.6594, and an AUC of 0.9334. INT8 quantization yields a 22.94~KB model with a recall difference of $+$0.0108, and on-device inference takes 26.6~ms per beat. The C preprocessing is shown to be equivalent to the Python reference at 3.0\% of the time budget with no lost samples. All four official body-signal recordings from one recording session meet the quality criteria, and the electrode-contact calibration gate opens monitoring about 60 seconds after good contact. Using a replayed MIT-BIH signal, the MQTT pipeline reaches a packet delivery success rate of 99.2\% to 100.0\% in three runs with median end-to-end latencies of 939 to 1,108~ms. Freezing the broker for 24 seconds loses no beat. The preprocessing and pipeline objectives are achieved, while the INT8 model objective is achieved except for the power consumption target, which has not been measured.
 % sumber: terjemahan bab/abstrak.tex, angka identik dengan abstrak berbahasa Indonesia dan Bab 4 (desimal memakai titik sesuai kaidah bahasa Inggris)
 
 \vspace{0.25cm}

diff --git a/model/docs/mqtt-walkthrough.md b/model/docs/mqtt-walkthrough.md
@@ -708,19 +708,25 @@ bukan menalar mana yang "paling mungkin".
 
 ## 7c. Target `bab3.tex` Tabel *Rencana pengukuran pada pengujian pipeline*
 
-Diukur dengan `dashboard/ukur_pipeline.py 180` (replay ON, tanpa elektroda),
-**dua ulangan** — aturan repo bahwa satu run tidak sah berlaku di sini juga.
+Diukur dengan `dashboard/ukur_pipeline.py` (replay ON, tanpa elektroda): Run 1
+dan 2 `ukur_pipeline.py 180` pada 19 Sep 2026, Run 3 `ukur_pipeline.py 120` pada
+23 Okt 2026 07.22–07.24 dengan firmware akhir (gerbang kontak, perekam sesi
+PSRAM), WiFi `HIFIAIR_9351` RSSI −40 dBm. Latensi = batas bawah keluaran skrip.
 
-| Aspek | Target | Run 1 | Run 2 | Vonis |
-|---|---|---|---|---|
-| PDSR | ≥ 95% | **100,0%** (292/292) | **99,2%** (253/255) | lulus |
-| Latensi median | ≤ 2 dtk | **939 ms** | **1.108 ms** | lulus |
-| Latensi p95 | ≤ 2 dtk | **1.404 ms** (lulus) | 3.304 ms (tidak lulus) | tidak stabil |
-| Latensi minimum | — | 429 ms | 527 ms | — |
-| Bufer lokal | ±27.000 | 27.000 terpasang | idem | lulus |
-| Integritas saat putus | tanpa kehilangan | `hilang 0` | `hilang 0` | lulus |
-| Pemulihan bufer | ≤ 60 dtk | ~24 dtk (43 beat) | idem | lulus |
-| Deduplikasi cloud | duplikat dikenali | 0 ts duplikat | idem | lulus |
+| Aspek | Target | Run 1 | Run 2 | Run 3 | Vonis |
+|---|---|---|---|---|---|
+| PDSR | ≥ 95% | **100,0%** (292/292) | **99,2%** (253/255) | **100,0%** (188/188) | lulus |
+| Latensi median | ≤ 2 dtk | **939 ms** | **1.108 ms** | **1.014 ms** | lulus |
+| Latensi p95 | ≤ 2 dtk | **1.404 ms** (lulus) | 3.304 ms (tidak lulus) | 2.251 ms (tidak lulus) | tidak stabil |
+| Latensi minimum | — | 429 ms | 527 ms | 495 ms | — |
+| Bufer lokal | ±27.000 | 27.000 terpasang | idem | idem | lulus |
+| Integritas saat putus | tanpa kehilangan | `hilang 0` | `hilang 0` | `hilang 0` | lulus |
+| Pemulihan bufer | ≤ 60 dtk | ~24 dtk (43 beat) | idem | idem | lulus |
+| Deduplikasi cloud | duplikat dikenali | 0 ts duplikat | idem | 0 (267 baris unik REST = terkirim 267) | lulus |
+
+Run 3 juga menghasilkan tangkapan dashboard yang dipakai buku
+(`dashboard/preview.png` = `model/artifacts/metrics/mqtt/20261023-0724-dashboard-replay.png`,
+Playwright, jendela Realtime 2 menit).
 
 ### Latensi dipecah
 

diff --git a/model/CLAUDE.md b/model/CLAUDE.md
@@ -85,6 +85,14 @@ Uraian panjang masuk walkthrough atau Bab 4 laporan, bukan ke sini.
 Daftar hal yang BELUM selesai dan mudah terlupa. Butir bertanggal; hapus butir
 hanya setelah benar-benar ditutup (catat penutupnya di walkthrough terkait).
 
+- **(23 Okt 2026) Rekaman mulai sendiri sesaat setelah board dicolok USB.**
+  Teramati dua kali: 22 Okt (`rekam=1 n=417` di status pertama) dan 23 Okt
+  (rekaman 30,5 s tanpa elektroda, mulai ±1 s sebelum port pertama dibuka).
+  ModemManager sudah dikecualikan (udev `ID_MM_DEVICE_IGNORE=1`). Penyebab
+  belum diukur: pasang cetak sumber pemicu (tombol B3 / serial `r`) di
+  `rekam_toggle()` sebelum menebak. Dampak: sesi rekam kosong ikut tersimpan
+  dan perintah yang ditolak selama sesi rekam (mis. `m`) gagal diam-diam di
+  skrip.
 - **(13 Okt 2026) Konsumsi daya per mode operasi.** Pengukuran daya per mode
   (idle, inferensi, WiFi/MQTT): rancangan di
   [`docs/arsip/2026-09-16-daya-design.md`](docs/arsip/2026-09-16-daya-design.md).
